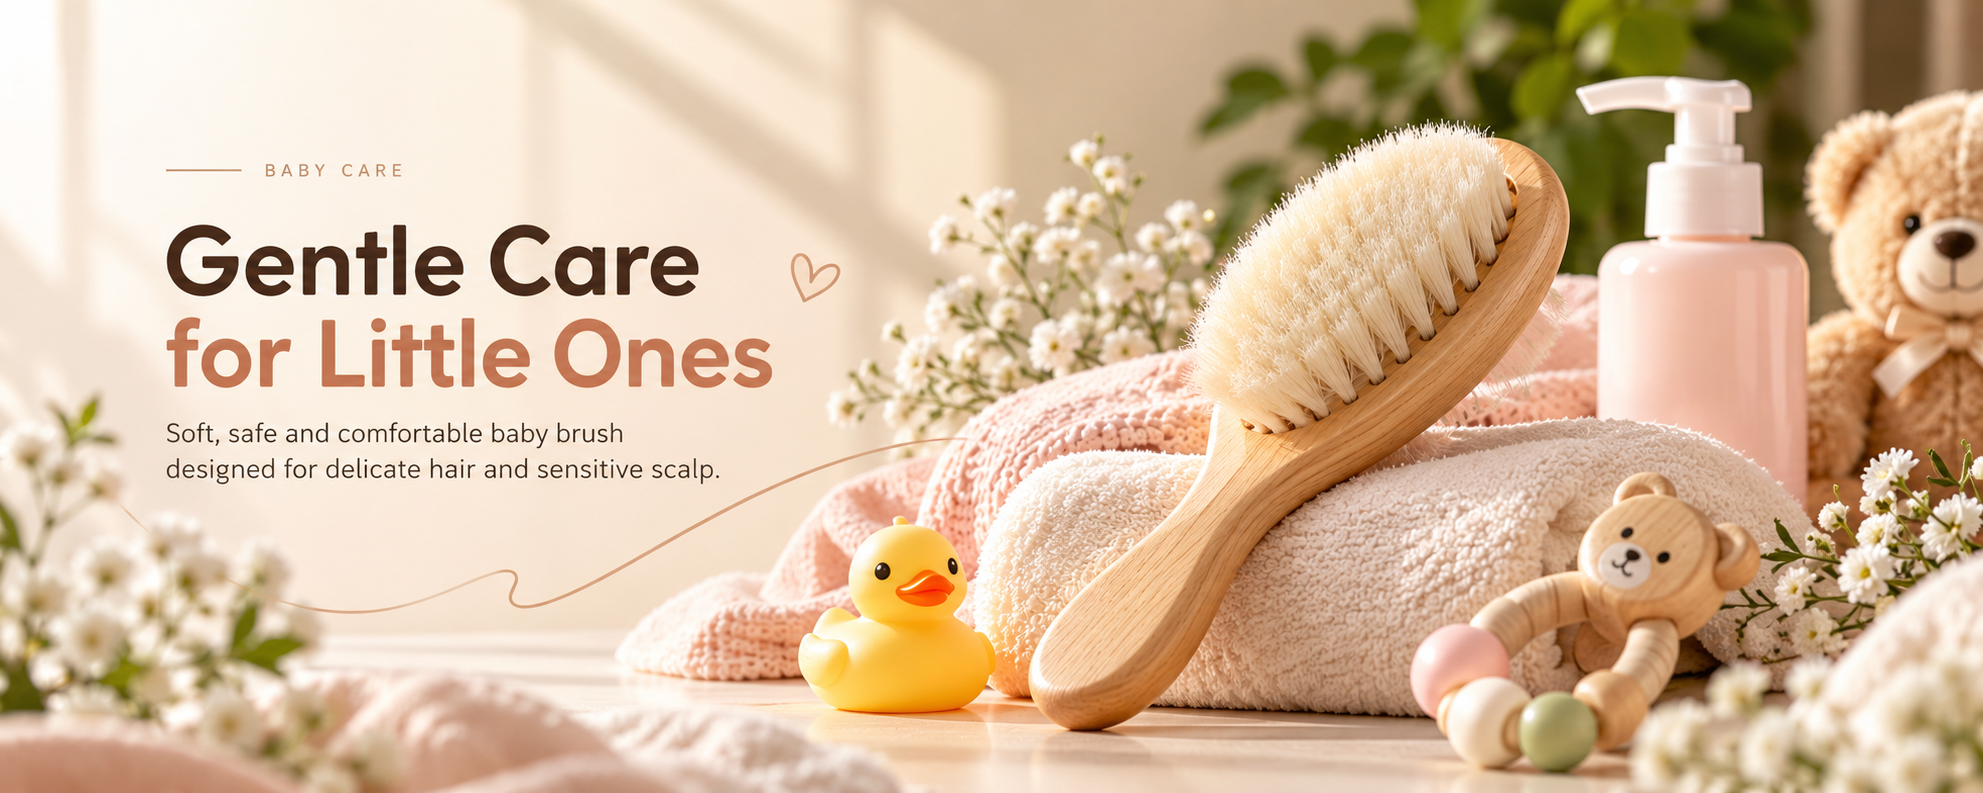
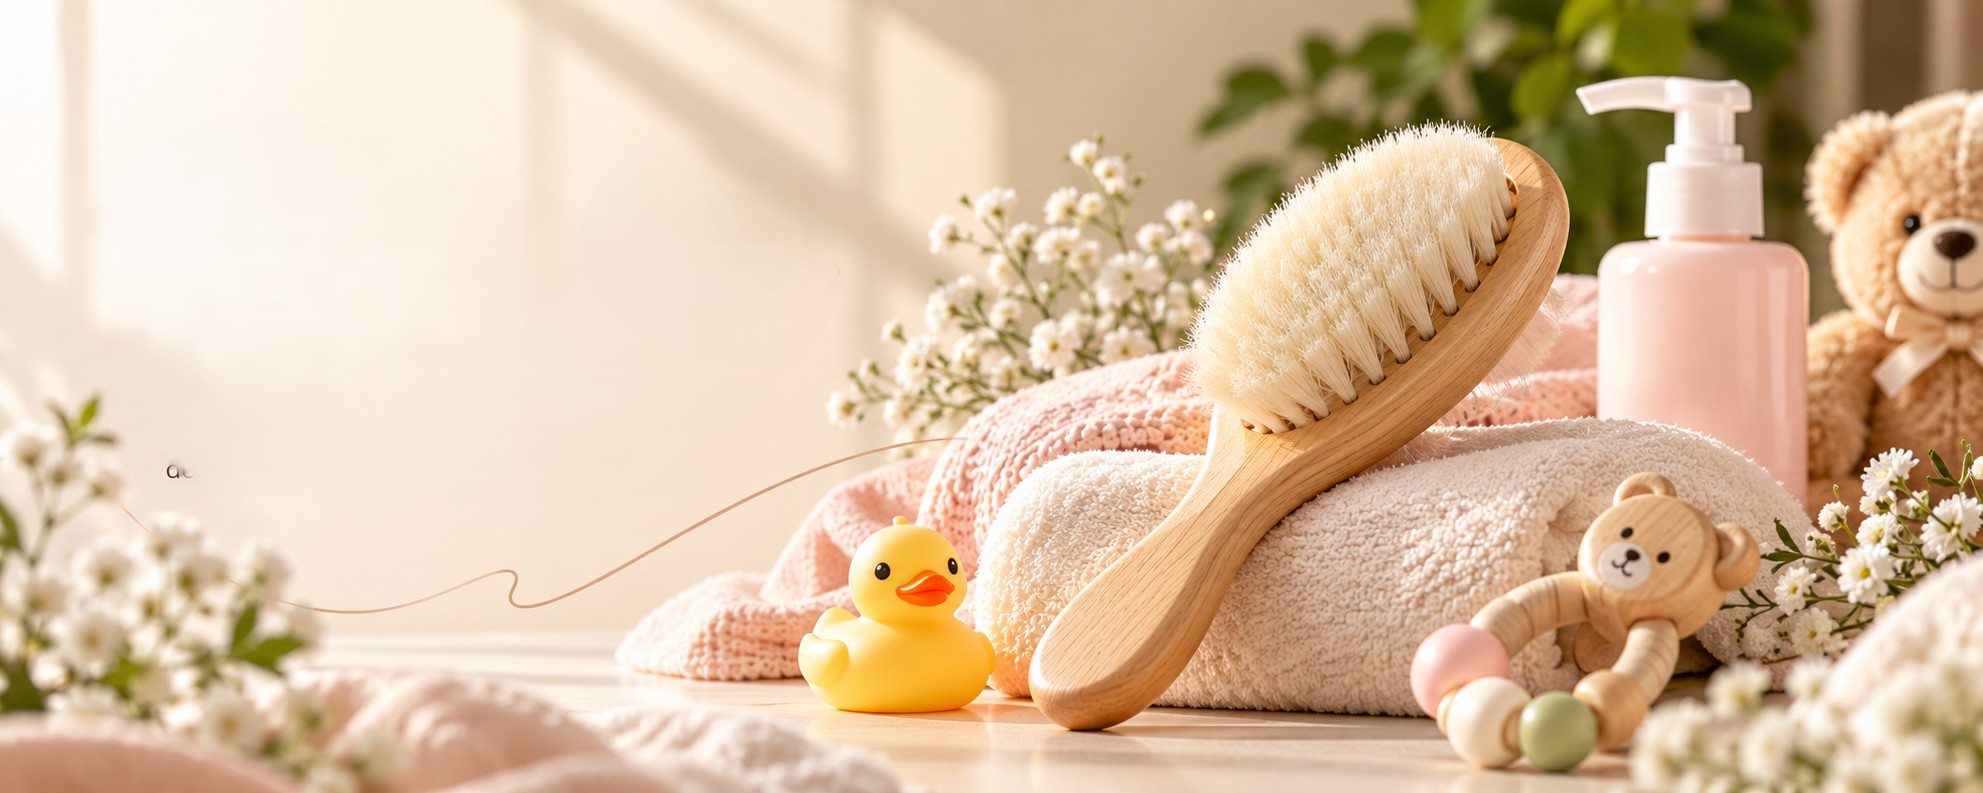
fix mobile bug

diff --git a/components/market/home/Hero.jsx b/components/market/home/Hero.jsx
@@ -52,29 +52,73 @@ const Hero = () => {
 
     useGsap(
         (el) => {
-            const image = imageRef.current
             const content = contentRef.current
-            const floating = floatingRef.current
 
-            if (!image || !content) return
+            if (!content) return
 
-            // Initial animation
-            gsap.fromTo(
-                image,
-                {
-                    opacity: 0,
-                    scale: 1.06,
-                    x: 30,
-                },
-                {
-                    opacity: 1,
-                    scale: 1,
-                    x: 0,
-                    duration: 0.8,
-                    ease: EASE.out,
+            // The right-hand image and the floating badge live inside a
+            // container that is `hidden` below the `lg` breakpoint, so on phones
+            // they have `display: none`. Animating a hidden node does nothing
+            // visible but keeps an infinite tween running, so only set these up
+            // on the desktop layout. `matchMedia` re-evaluates on resize /
+            // orientation change.
+            const mm = gsap.matchMedia()
+
+            mm.add('(min-width: 1024px)', () => {
+                const image = imageRef.current
+                const floating = floatingRef.current
+
+                if (!image) return
+
+                gsap.fromTo(
+                    image,
+                    {
+                        opacity: 0,
+                        scale: 1.06,
+                        x: 30,
+                    },
+                    {
+                        opacity: 1,
+                        scale: 1,
+                        x: 0,
+                        duration: 0.8,
+                        ease: EASE.out,
+                    }
+                )
+
+                if (floating) {
+                    gsap.fromTo(
+                        floating,
+                        {
+                            opacity: 0,
+                            scale: 0.85,
+                            y: 20,
+                        },
+                        {
+                            opacity: 1,
+                            scale: 1,
+                            y: 0,
+                            duration: 0.7,
+                            delay: 0.2,
+                            ease: 'back.out(1.5)',
+                        }
+                    )
                 }
-            )
 
+                // Very subtle floating animation
+                const floatTween = gsap.to(image, {
+                    y: -8,
+                    duration: 2.5,
+                    ease: 'sine.inOut',
+                    repeat: -1,
+                    yoyo: true,
+                    delay: 1,
+                })
+
+                return () => floatTween.kill()
+            })
+
+            // Content entrance runs on every viewport.
             gsap.fromTo(
                 content,
                 {
@@ -90,61 +134,31 @@ const Hero = () => {
                 }
             )
 
-            if (floating) {
-                gsap.fromTo(
-                    floating,
-                    {
-                        opacity: 0,
-                        scale: 0.85,
-                        y: 20,
-                    },
-                    {
-                        opacity: 1,
-                        scale: 1,
-                        y: 0,
-                        duration: 0.7,
-                        delay: 0.2,
-                        ease: 'back.out(1.5)',
-                    }
-                )
-            }
+            // Automatically change slide after 3 seconds. The fade-out targets
+            // are collected defensively so a missing image is never handed to
+            // GSAP (on mobile it is `display: none`).
+            const fadeTargets = [content]
+            if (imageRef.current) fadeTargets.push(imageRef.current)
 
-            // Very subtle floating animation
-            const floatTween = gsap.to(image, {
-                y: -8,
-                duration: 2.5,
-                ease: 'sine.inOut',
-                repeat: -1,
-                yoyo: true,
-                delay: 1,
-            })
-
-            // Automatically change slide after 3 seconds
             const timer = setTimeout(() => {
                 const nextIndex =
                     (activeIndex + 1) % slides.length
 
-                const transition = gsap.timeline({
+                gsap.timeline({
                     onComplete: () => {
                         setActiveIndex(nextIndex)
                     },
+                }).to(fadeTargets, {
+                    opacity: 0,
+                    x: -25,
+                    duration: 0.35,
+                    ease: EASE.inOut,
                 })
-
-                transition
-                    .to(
-                        [content, image],
-                        {
-                            opacity: 0,
-                            x: -25,
-                            duration: 0.35,
-                            ease: EASE.inOut,
-                        }
-                    )
             }, 3000)
 
             return () => {
                 clearTimeout(timer)
-                floatTween.kill()
+                mm.revert()
             }
         },
         {

diff --git a/components/SmoothScroll.jsx b/components/SmoothScroll.jsx
@@ -1,33 +1,57 @@
 'use client'
 
-import { useEffect } from 'react'
-import { ReactLenis, useLenis } from 'lenis/react'
-import { ScrollTrigger } from '@/lib/animations'
+import { useEffect, useRef } from 'react'
+import { ReactLenis } from 'lenis/react'
+import { gsap, ScrollTrigger } from '@/lib/animations'
 
 // Site-wide smooth scrolling powered by Lenis.
 // `root` attaches the instance to the window/document so no extra wrapper is rendered.
 const SmoothScroll = ({ children }) => {
-
-    // Keep ScrollTrigger in sync with Lenis so scroll reveals stay accurate.
-    useLenis(() => {
-        ScrollTrigger.update()
-    })
+    const lenisRef = useRef(null)
 
     useEffect(() => {
+        // Drive Lenis from the GSAP ticker instead of its own rAF loop so both
+        // libraries share a single frame and never fight each other. This is the
+        // pattern the Lenis docs recommend for GSAP projects.
+        const update = (time) => {
+            lenisRef.current?.lenis?.raf(time * 1000)
+        }
+
+        gsap.ticker.add(update)
+        gsap.ticker.lagSmoothing(0)
+
+        const lenis = lenisRef.current?.lenis
+
+        // Keep ScrollTrigger in sync with Lenis so scroll reveals stay accurate.
+        lenis?.on('scroll', ScrollTrigger.update)
+
         // Recalculate trigger positions once Lenis has taken over scrolling.
         const id = window.setTimeout(() => ScrollTrigger.refresh(), 120)
-        return () => window.clearTimeout(id)
+
+        return () => {
+            gsap.ticker.remove(update)
+            gsap.ticker.lagSmoothing(500, 33)
+            lenis?.off('scroll', ScrollTrigger.update)
+            window.clearTimeout(id)
+        }
     }, [])
 
     return (
         <ReactLenis
             root
+            ref={lenisRef}
+            autoRaf={false}
             options={{
                 lerp: 0.1,
                 duration: 1.2,
                 smoothWheel: true,
                 wheelMultiplier: 1,
                 touchMultiplier: 2,
+                // Phones keep native momentum scrolling (best for touch) while
+                // wheel/trackpad devices still get the smooth Lenis feel.
+                smoothTouch: false,
+                syncTouch: false,
+                autoResize: true,
             }}
         >
             {children}

diff --git a/components/market/home/BestSelling.jsx b/components/market/home/BestSelling.jsx
@@ -6,7 +6,6 @@ import ProductCard from '../share/ProductCard'
 import { useSelector } from 'react-redux'
 import {
     gsap,
-    ScrollTrigger,
     buttonPress,
     select,
     useGsap,
@@ -19,12 +18,21 @@ const BestSelling = () => {
 
     const rootRef = useRef(null)
 
-    const bestSellingProducts = products
+    // `rating` is expected to be an array of reviews, but a product coming from
+    // the API / seller dashboard can be missing it entirely. Reading
+    // `rating.length` unguarded throws a TypeError during render and takes down
+    // the whole page, so count safely instead.
+    const ratingCount = (product) => {
+        const rating = product && product.rating
+
+        return Array.isArray(rating) ? rating.length : 0
+    }
+
+    const productList = Array.isArray(products) ? products : []
+
+    const bestSellingProducts = productList
         .slice()
-        .sort(
-            (a, b) =>
-                b.rating.length - a.rating.length
-        )
+        .sort((a, b) => ratingCount(b) - ratingCount(a))
         .slice(0, displayQuantity)
 
     useGsap(
@@ -88,8 +96,6 @@ const BestSelling = () => {
                 }
             )
 
-            ScrollTrigger.refresh()
-
             return () => {
                 cleanupButton?.()
             }
@@ -105,7 +111,7 @@ const BestSelling = () => {
             {/* Header */}
             <Title
                 title="Best Selling"
-                description={`Showing ${bestSellingProducts.length} of ${products.length} products`}
+                description={`Showing ${bestSellingProducts.length} of ${productList.length} products`}
                 href="/shop"
             />
 

diff --git a/components/market/home/LatestProducts.jsx b/components/market/home/LatestProducts.jsx
@@ -7,7 +7,6 @@ import ProductCard from '../share/ProductCard'
 import { useSelector } from 'react-redux'
 import {
     gsap,
-    ScrollTrigger,
     useGsap,
     buttonPress,
 } from '@/lib/animations'
@@ -20,13 +19,19 @@ const LatestProducts = () => {
     const sliderRef = useRef(null)
     const rootRef = useRef(null)
 
-    const latestProducts = products
+    const productList = Array.isArray(products) ? products : []
+
+    // Invalid / missing dates produce NaN, which makes the comparison
+    // unpredictable. Fall back to 0 so the sort is always well defined.
+    const toTime = (value) => {
+        const time = new Date(value).getTime()
+
+        return Number.isFinite(time) ? time : 0
+    }
+
+    const latestProducts = productList
         .slice()
-        .sort(
-            (a, b) =>
-                new Date(b.createdAt) -
-                new Date(a.createdAt)
-        )
+        .sort((a, b) => toTime(b.createdAt) - toTime(a.createdAt))
         .slice(0, displayQuantity)
 
     useGsap((el) => {
@@ -113,8 +118,6 @@ const LatestProducts = () => {
             duration: 0.2,
         })
 
-        ScrollTrigger.refresh()
-
         return () => {
             cleanupButtons?.()
         }
@@ -189,7 +192,7 @@ const LatestProducts = () => {
             >
                 <Title
                     title="Latest Products"
-                    description={`Showing ${latestProducts.length} of ${products.length} products`}
+                    description={`Showing ${latestProducts.length} of ${productList.length} products`}
                     href="/shop"
                 />
 

diff --git a/lib/animations/gsap.js b/lib/animations/gsap.js
@@ -9,17 +9,32 @@ let pluginsRegistered = false
 // safe to evaluate during SSR.
 if (typeof window !== 'undefined' && !pluginsRegistered) {
     gsap.registerPlugin(ScrollTrigger)
+
+    // Mobile browsers fire a `resize` event every time the address bar shows or
+    // hides while scrolling. Without this, ScrollTrigger recalculates every
+    // trigger on each of those events, which fights Lenis and produces heavy
+    // jank / repeated refreshes on phones.
+    ScrollTrigger.config({ ignoreMobileResize: true })
+
     pluginsRegistered = true
 }
 
 // Recalculate all trigger positions once fonts/images have finished loading so
-// reveals land exactly where they should.
+// reveals land exactly where they should. Deferred to the next tick so we never
+// refresh synchronously while React is still mounting the tree.
 if (typeof window !== 'undefined') {
-    const refresh = () => ScrollTrigger.refresh()
+    const refresh = () => {
+        if (ScrollTrigger && typeof ScrollTrigger.refresh === 'function') {
+            ScrollTrigger.refresh()
+        }
+    }
+
     if (document.readyState === 'complete') {
-        refresh()
+        window.setTimeout(refresh, 0)
     } else {
-        window.addEventListener('load', refresh, { once: true })
+        window.addEventListener('load', () => window.setTimeout(refresh, 0), {
+            once: true,
+        })
     }
 }
 

diff --git a/components/market/home/CategoriesMarquee.jsx b/components/market/home/CategoriesMarquee.jsx
@@ -52,9 +52,12 @@ const CategoriesMarquee = () => {
 
             if (!items.length) return
 
-            // Calculate the width of one complete category set
-            const setWidth =
-                track.scrollWidth / 4
+            // Calculate the width of one complete category set. Bail out if the
+            // track has not been laid out yet (width 0 or NaN) so GSAP never
+            // receives an invalid animation value.
+            const setWidth = track.scrollWidth / 4
+
+            if (!Number.isFinite(setWidth) || setWidth <= 0) return
 
             // Continuous left-to-right movement
             const tween = gsap.to(track, {
